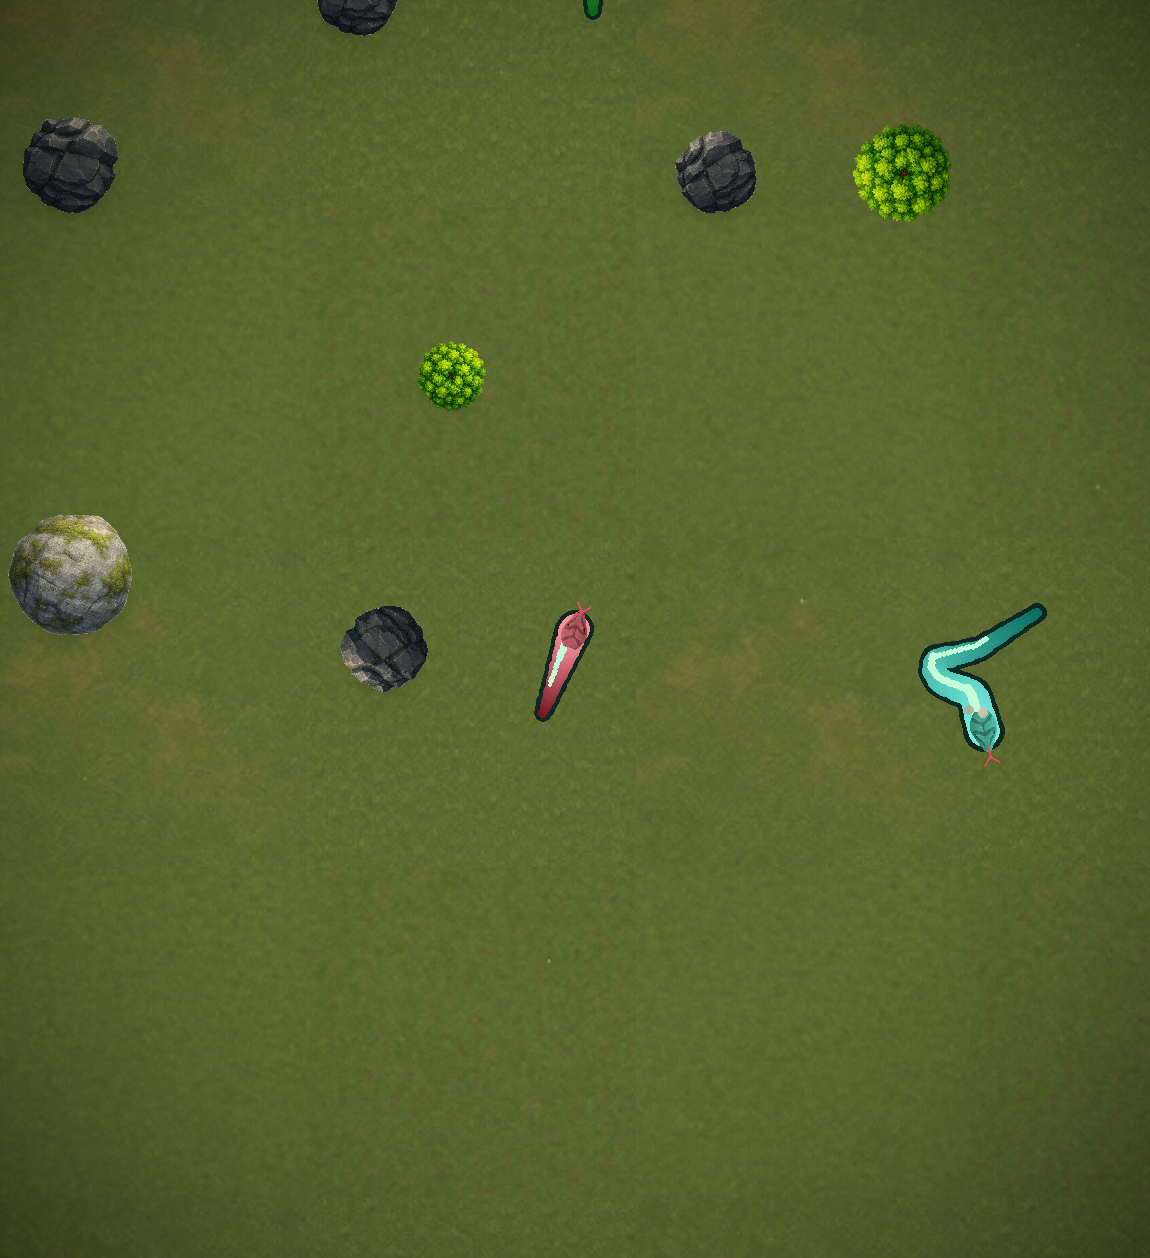
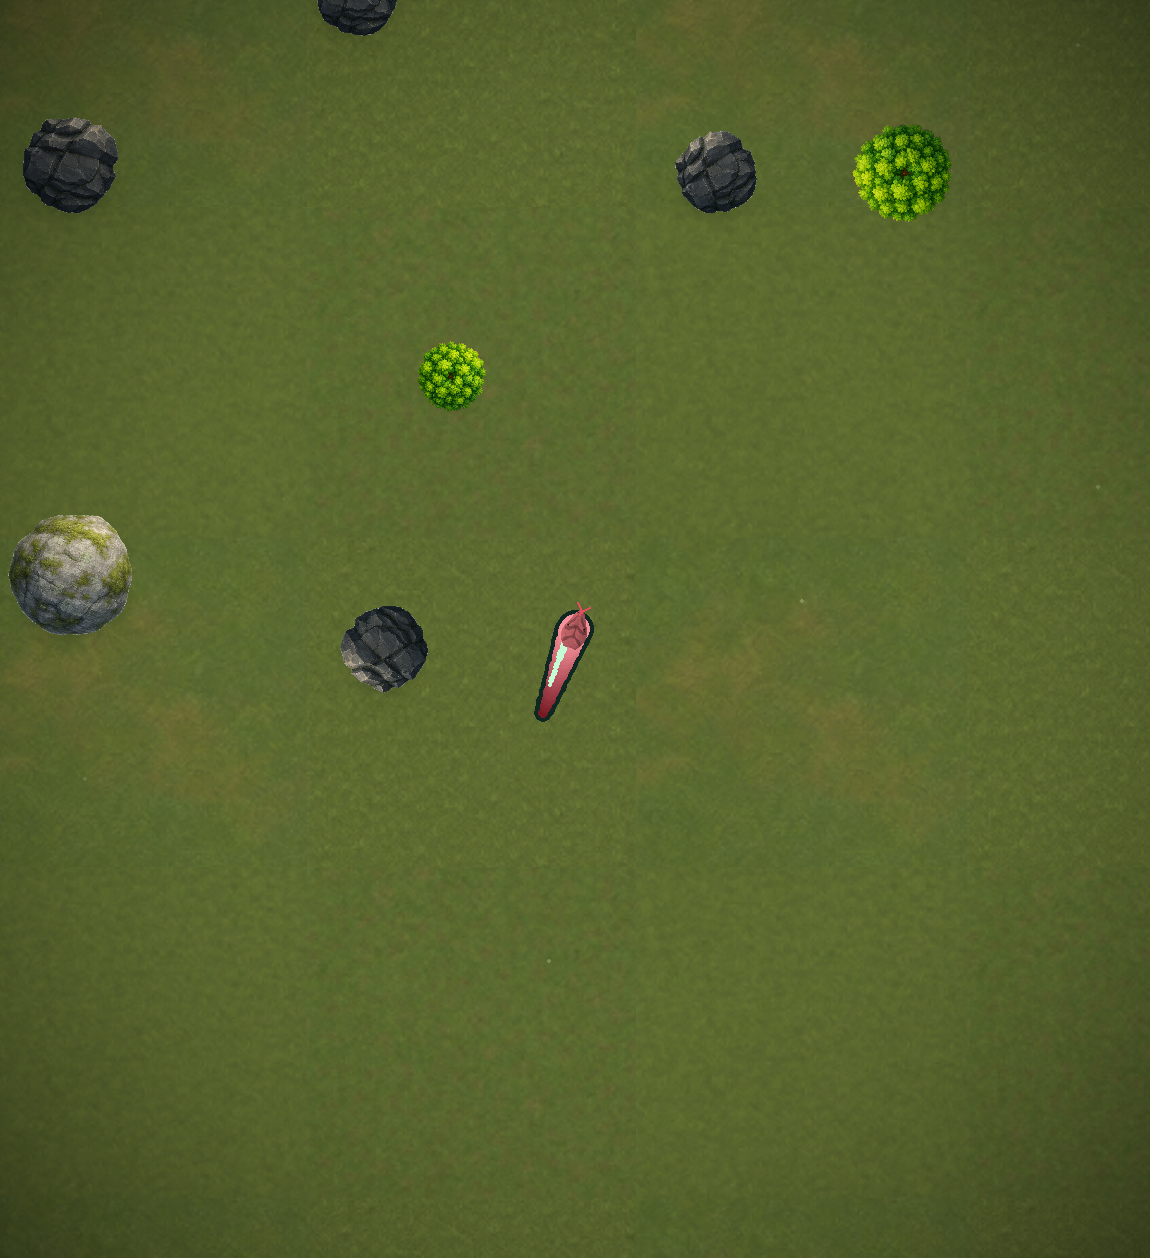
viewer: ship the fine-tuned model (2x vision + 1.5x food); dial viewer to 1.5x obstacles + eased mating so the persistent world stays lively (2x obstacles measured to starve it)

Changed region(s): [[0.7913, 0.465, 0.913, 0.62], [0.487, 0.0, 0.5174, 0.031]]

diff --git a/snake_rl/watch.py b/snake_rl/watch.py
@@ -13,11 +13,22 @@ from .selfplay import OpponentController
 from .sensors import OBS_DIM
 from dataclasses import replace
 
-# WATCH-only richness: 2x obstacle density (rocks/trees) on the big map. Viewer-only -- obstacle COUNT
-# doesn't shift any obs bound (rays report the nearest hit, bounded), so no retrain is needed; the
-# policy threads denser clutter by sight (obstacles are solid-slide + non-lethal stun). Only the
-# n_obstacles_* counts differ from CFG.
-VIEWER_CFG = replace(CFG, n_obstacles_min=CFG.n_obstacles_min * 2, n_obstacles_max=CFG.n_obstacles_max * 2)
+# WATCH tuning (viewer-only, no retrain). Two adjustments, both leaving obs bounds intact:
+#  1. Richer clutter -- 1.5x obstacle density. (2x was measured to STARVE the ecosystem: the policy
+#     trains on 1x, and 2x clutter causes too many dash-stuns / too little open hunting room -> 4x the
+#     starvation, no births. 1.5x reads noticeably denser but stays lively.)
+#  2. Mating gate eased WITHIN the curriculum-swept ranges so organic reproduction stays lively in the
+#     never-resetting persistent world (Pitfall-12-safe -- the policy already experienced these values
+#     during the curriculum; sex is kept required). This is the v1/v2 "runtime ease for viewer
+#     sustainability" playbook applied to v3.
+VIEWER_CFG = replace(
+    CFG,
+    n_obstacles_min=int(CFG.n_obstacles_min * 1.5), n_obstacles_max=int(CFG.n_obstacles_max * 1.5),
+    repro_energy_frac=0.5,     # swept 0.3 -> 0.7; 0.5 sits inside
+    r_mate=9.0,                # swept 12 -> 7; 9 inside
+    mate_steps=1,              # swept 1 -> 2; the easy end
+    repro_length_frac=0.45,    # swept 0.4 -> 0.55; 0.45 inside
+)
 
 
 def _norm_path_for(model_path):